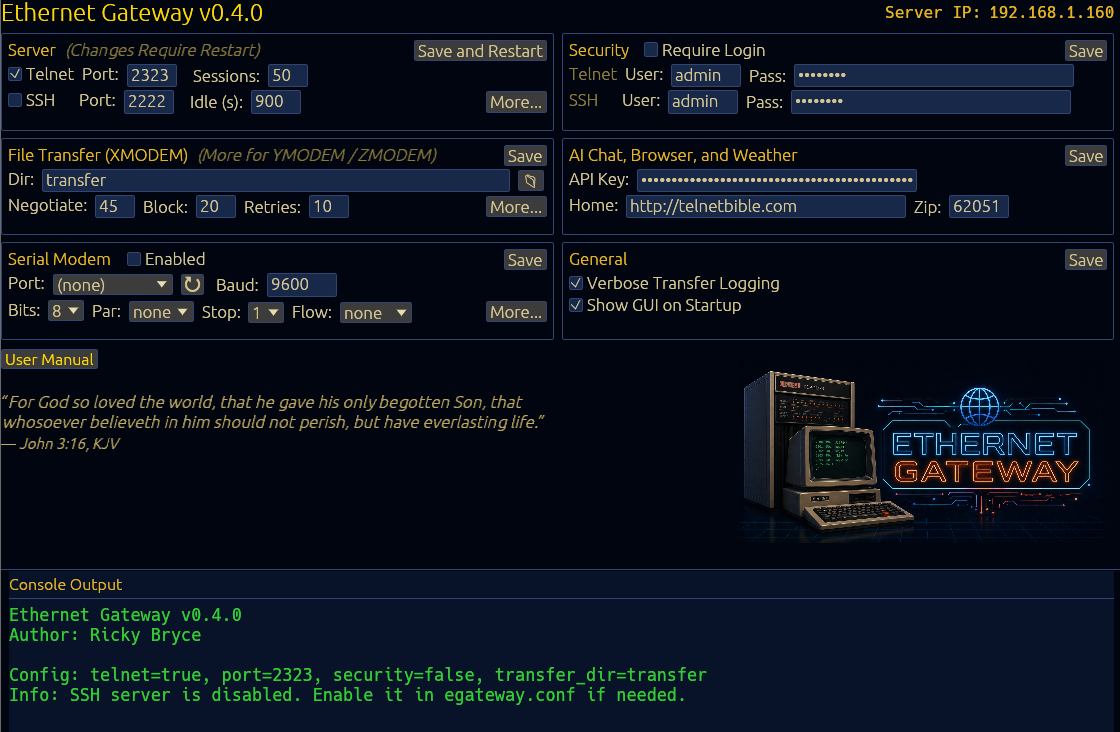
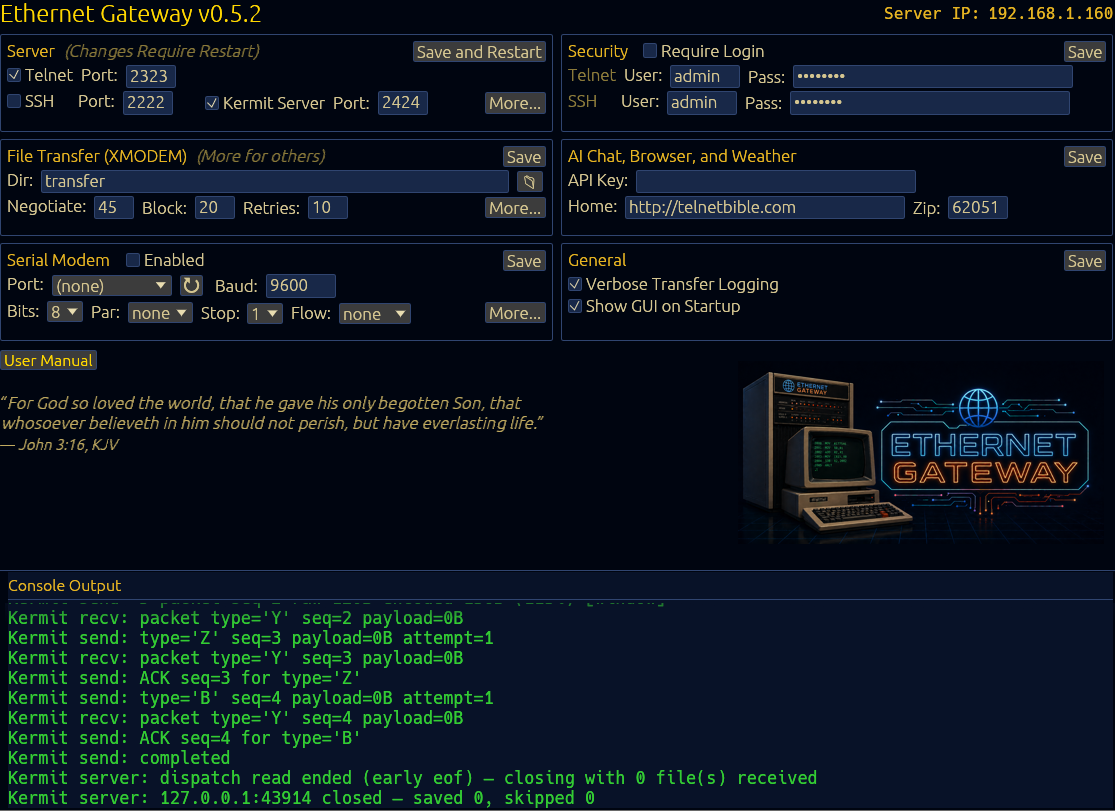
Fixed CD .. Kermit command.

diff --git a/kermit.html b/kermit.html
@@ -542,6 +542,8 @@
     <span class="key">get &lt;file&gt;</span>              — download a file from us
     <span class="key">remote dir</span>                — list files in current dir
     <span class="key">remote cwd &lt;subdir&gt;</span>       — change our working subdir
+    <span class="key">remote cdup</span>               — go up one level
+    <span class="key">remote cd</span>                 — return to the transfer_dir root
     <span class="key">remote type &lt;file&gt;</span>        — display file contents
     <span class="key">remote delete &lt;file&gt;</span>      — delete a file (alias: era)
     <span class="key">remote rename &lt;old&gt; &lt;new&gt;</span> — rename a file
@@ -625,7 +627,13 @@
                         <tr>
                             <td><code>remote cwd &lt;subdir&gt;</code><br><span class="dim-text">aka <code>remote cd</code></span></td>
                             <td>G C</td>
-                            <td>Change the gateway's working sub-directory for the rest of this session. Resolved relative to <code>transfer_dir</code>. Three special cases: <code>remote cd</code> with <em>no argument</em> resets back to the <code>transfer_dir</code> root; <code>remote cd ..</code> (or <code>remote cdup</code>) pops one component (no-op at the root); a target that doesn't exist on disk is refused with an E-packet so a typo'd <code>remote cd asembly</code> fails fast instead of silently dropping uploads into a bogus path. Path-traversal (<code>..</code> as a component anywhere except as the bare argument, leading dot, backslash, NUL) is refused.</td>
+                            <td>Change the gateway's working sub-directory for the rest of this session. Resolved relative to <code>transfer_dir</code>. Special cases:
+                                <ul style="margin: 6px 0 0 18px; padding: 0;">
+                                    <li><code>remote cd</code> with <em>no argument</em> resets back to the <code>transfer_dir</code> root.</li>
+                                    <li><code>remote cdup</code> pops one component (no-op at the root). This is the reliable form for "go up." <code>remote cd ..</code> works only when the C-Kermit client passes <code>..</code> straight through to the wire; some C-Kermit builds canonicalize <code>..</code> against the local filesystem first, in which case the server never sees it. <code>cdup</code> always sends the literal <code>..</code> per <code>ckuus7.c:7762</code>.</li>
+                                    <li>A target that doesn't exist on disk is refused with an E-packet, so a typo'd <code>remote cd asembly</code> fails fast instead of silently dropping uploads into a bogus path.</li>
+                                </ul>
+                                Path-traversal (<code>..</code> as a component anywhere except as the bare CDUP argument, leading dot, backslash, NUL) is refused.</td>
                         </tr>
                         <tr>
                             <td><code>remote space</code></td>

diff --git a/src/gui.rs b/src/gui.rs
@@ -410,8 +410,10 @@ impl App {
             ui.checkbox(&mut self.cfg.ssh_enabled, "SSH");
             ui.add_space(16.0);
             labeled_field(ui, "Port:", &mut self.ssh_port_buf, 50.0);
-        });
-        ui.horizontal(|ui| {
+            // Kermit Server shares the SSH row.  The wide gutter makes
+            // the second listener visually distinct from the first
+            // pair so the row doesn't read as one four-field cluster.
+            ui.add_space(24.0);
             let mut local = self.cfg.kermit_server_enabled;
             let prev = local;
             let resp = ui.checkbox(&mut local, "Kermit Server");
